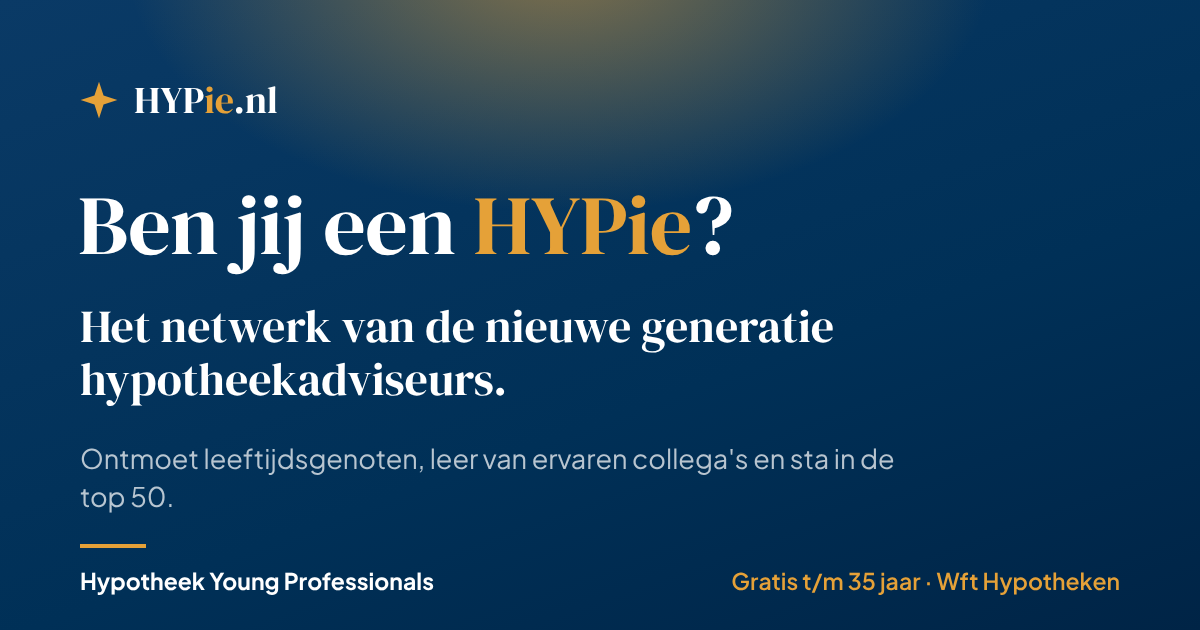
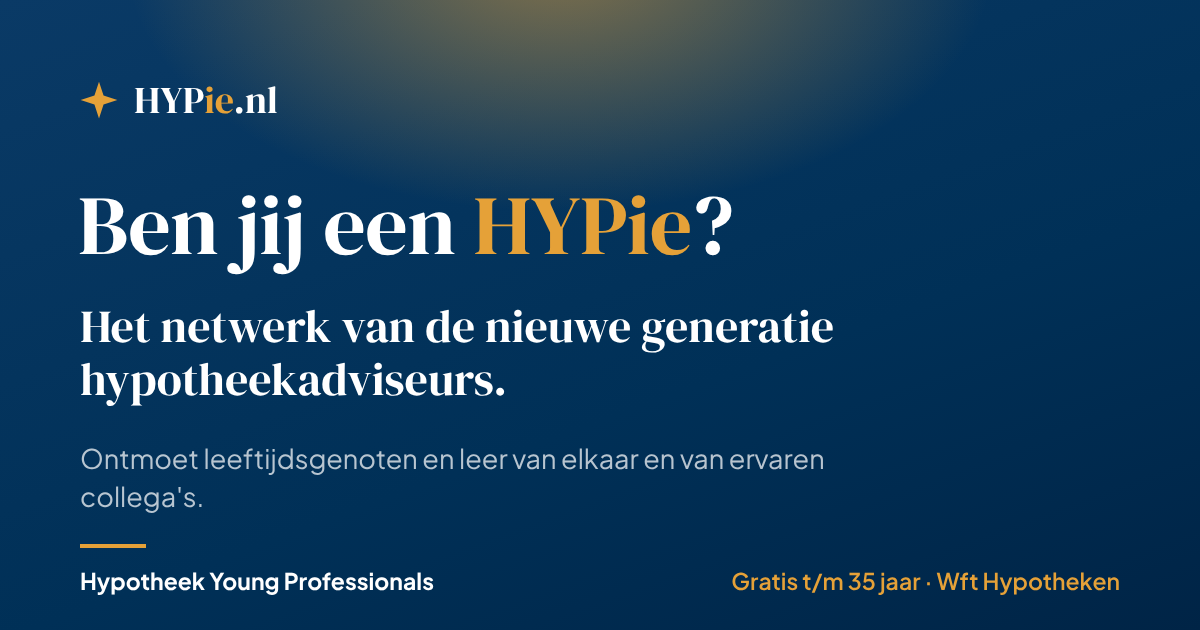
Hero: nadruk op erbij horen en leren, geen competitie
Claude-Session: https://claude.ai/code/session_01BTY9zGHbLSUs3ojohUwppB

Changed region(s): [[0.3392, 0.6937, 0.74, 0.754], [0.0617, 0.754, 0.185, 0.8143]]

diff --git a/index.html b/index.html
@@ -10,7 +10,7 @@
 <meta property="og:type" content="website">
 <meta property="og:site_name" content="HYPie.nl">
 <meta property="og:title" content="HYPie.nl — Hypotheek Young Professionals">
-<meta property="og:description" content="Ben jij een HYPie? Het netwerk van de nieuwe generatie hypotheekadviseurs (t/m 35): ontmoet leeftijdsgenoten, leer van ervaren collega's en laat zien wat je kunt in de top 50.">
+<meta property="og:description" content="Ben jij een HYPie? Het netwerk van de nieuwe generatie hypotheekadviseurs (t/m 35): ontmoet leeftijdsgenoten en leer van elkaar en van ervaren collega's.">
 <meta property="og:url" content="https://www.hypie.nl/">
 <meta property="og:locale" content="nl_NL">
 <meta property="og:image" content="https://www.hypie.nl/hypie-og-image.png">
@@ -755,7 +755,7 @@
     <div class="hero-copy">
       <span class="badge35">★ Voor hypotheekadviseurs t/m 35 jaar · met Wft Hypotheken</span>
       <h1>Ben jij een <em>HYPie</em>?<span class="h1-sub">Het netwerk van de nieuwe generatie hypotheekadviseurs.</span></h1>
-      <p class="lead">Ontmoet jonge adviseurs uit heel Nederland. Leer van de mensen die het vak al jaren kennen. En laat zien wat je kunt in de top 50. Gratis, tot en met je 35e.</p>
+      <p class="lead">Ontmoet jonge adviseurs uit heel Nederland. Leer van elkaar, en van de mensen die het vak al jaren kennen. Een plek waar je bij hoort. Gratis, tot en met je 35e.</p>
       <div class="hero-cta">
         <a href="#aanmelden" class="btn btn-accent btn-cta">Word HYPie, gratis →</a>
         <a href="#werkgevers" class="btn btn-ghost">Voor kantoren</a>
